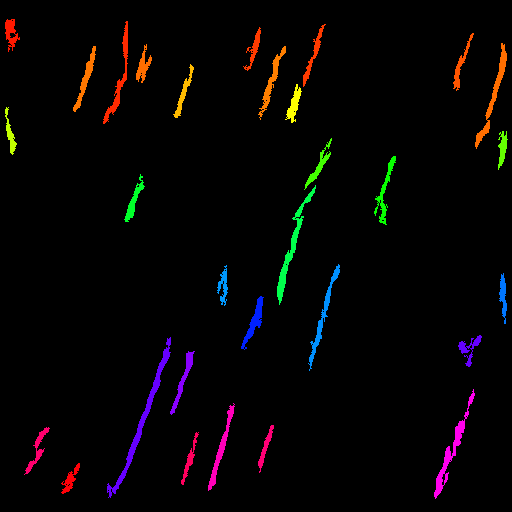
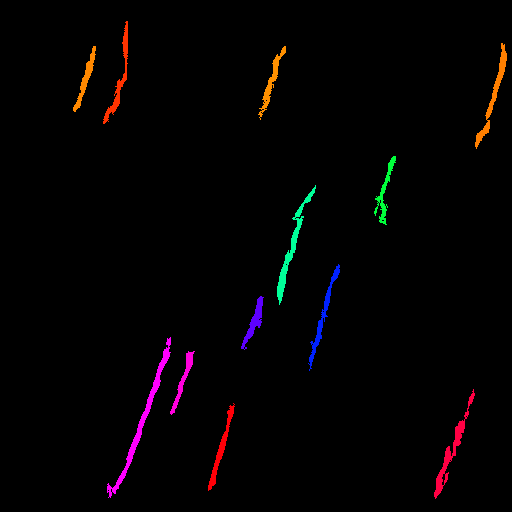
aa
aa

diff --git a/main.py b/main.py
@@ -47,8 +47,11 @@ def pol2cart(theta, rho):
 
 
 nBands = 10
-mSize = 40
+mSize = 40   #10 100 5 300 2500
 mzSize = 5
+MINN = 300     #Connected comp. analiz için gerekli olan alanın  min değeri.
+MAXN = 2500   # Connected comp için alanın olacağı max değer.
+
 filts = np.ones((nBands, 1))
 #print("filts değerli :")
 #print(filts)
@@ -182,7 +185,7 @@ for i in range(0,512):
         if (6 <= colAssignment[i][k]<9):
             colAssignment[i][k] =7
 """
-print('matris2', colAssignment)
+#print('matris2', colAssignment)
 #plt.imsave("test.png",colAssignment)
 plt.imsave("nothasta_yönelim.png",colAssignment)
 c = plt.imshow(colAssignment)
@@ -279,14 +282,14 @@ for x in range(0,10,1):
     ts = time.time()
     num = labels.max()
 
-    N = 300
+
     for i in range(1, num+1):
         pts =  np.where(labels == i)
-        if len(pts[0]) < N:
+        if len(pts[0]) < MINN:
             labels[pts] = 0
     for y in range(1, num+1):
         pts =  np.where(labels == y)
-        if len(pts[0]) > 3000:
+        if len(pts[0]) > MAXN:
             labels[pts] = 0
 
     print("Time passed: {:.3f} ms".format(1000*(time.time()-ts)))
@@ -309,21 +312,57 @@ for x in range(0,10,1):
     cv2.imwrite('labeled'+str(x)+'.png', labeled_img)
     cv2.waitKey()
 
+img1 = cv2.imread('labeled0.png')
+img2 = cv2.imread('labeled1.png')
+dst = cv2.addWeighted(img1, 1, img2, 1, 0)
+img3 = cv2.imread('labeled2.png')
+dst1 = cv2.addWeighted(dst, 1, img3, 1, 0)
+img4 = cv2.imread('labeled3.png')
+dst2 = cv2.addWeighted(dst1, 1, img4, 1, 0)
+img5 = cv2.imread('labeled4.png')
+dst3 = cv2.addWeighted(dst2, 1, img5, 1, 0)
+img6 = cv2.imread('labeled5.png')
+dst4 = cv2.addWeighted(dst3, 1, img6, 1, 0)
+img7 = cv2.imread('labeled6.png')
+dst5 = cv2.addWeighted(dst4, 1, img7, 1, 0)
+img8 = cv2.imread('labeled7.png')
+dst6 = cv2.addWeighted(dst5, 1, img8, 1, 0)
+img9 = cv2.imread('labeled8.png')
+dst7 = cv2.addWeighted(dst6, 1, img9, 1, 0)
+img10 = cv2.imread('labeled9.png')
+dst8 = cv2.addWeighted(dst7, 1, img10, 1, 0)
+
+#cv2.imshow('Blended Image',dst8)
+plt.imsave("Overlay.png" , dst8)
+cv2.waitKey(0)
+cv2.destroyAllWindows()
 
 
 
+img = cv2.imread('"Overlay.png')
+
+#img = cv2.cvtColor(img, cv2.COLOR_BGR2GRAY)
+_, thresh = cv2.threshold(img, 225, 255, cv2.THRESH_BINARY_INV)
+kernal = np.ones((2, 2), np.uint8)
+
+dilation = cv2.dilate(thresh, kernal, iterations=2)
+
+contours, hierarchy = cv2.findContours(
+    dilation, cv2.RETR_EXTERNAL, cv2.CHAIN_APPROX_SIMPLE)
+
+objects = str(len(contours))
+
+text = "Obj:"+str(objects)
+cv2.putText(dilation, text, (10, 25),  cv2.FONT_HERSHEY_SIMPLEX,
+            0.4, (240, 0, 159), 1)
 
 
+cv2.imshow('Original', img)
+cv2.imshow('Thresh', thresh)
+cv2.imshow('Dilation', dilation)
 
-
-
-
-
-
-
-
-
-
+cv2.waitKey(0)
+cv2.destroyAllWindows()
 
 
 
